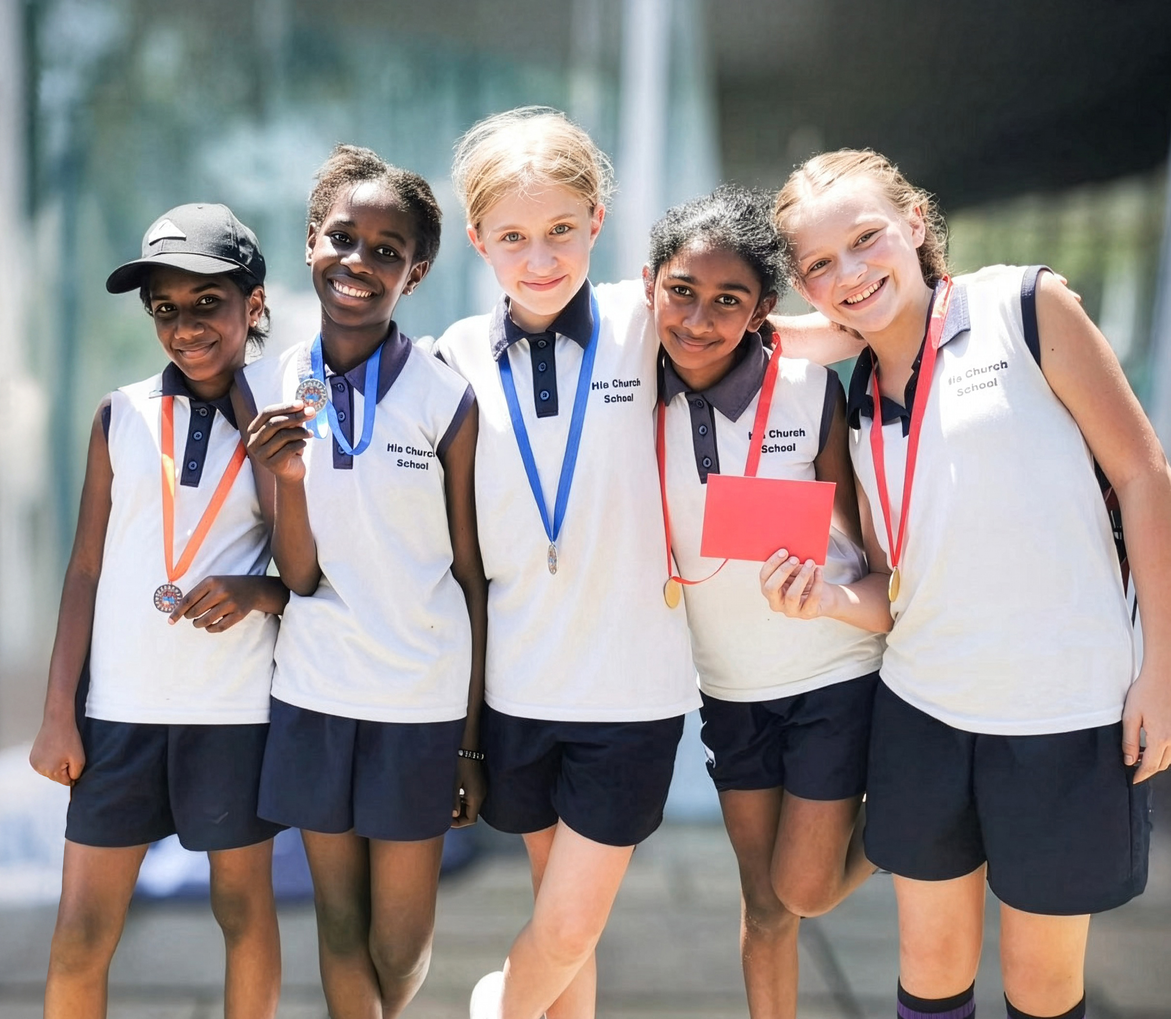
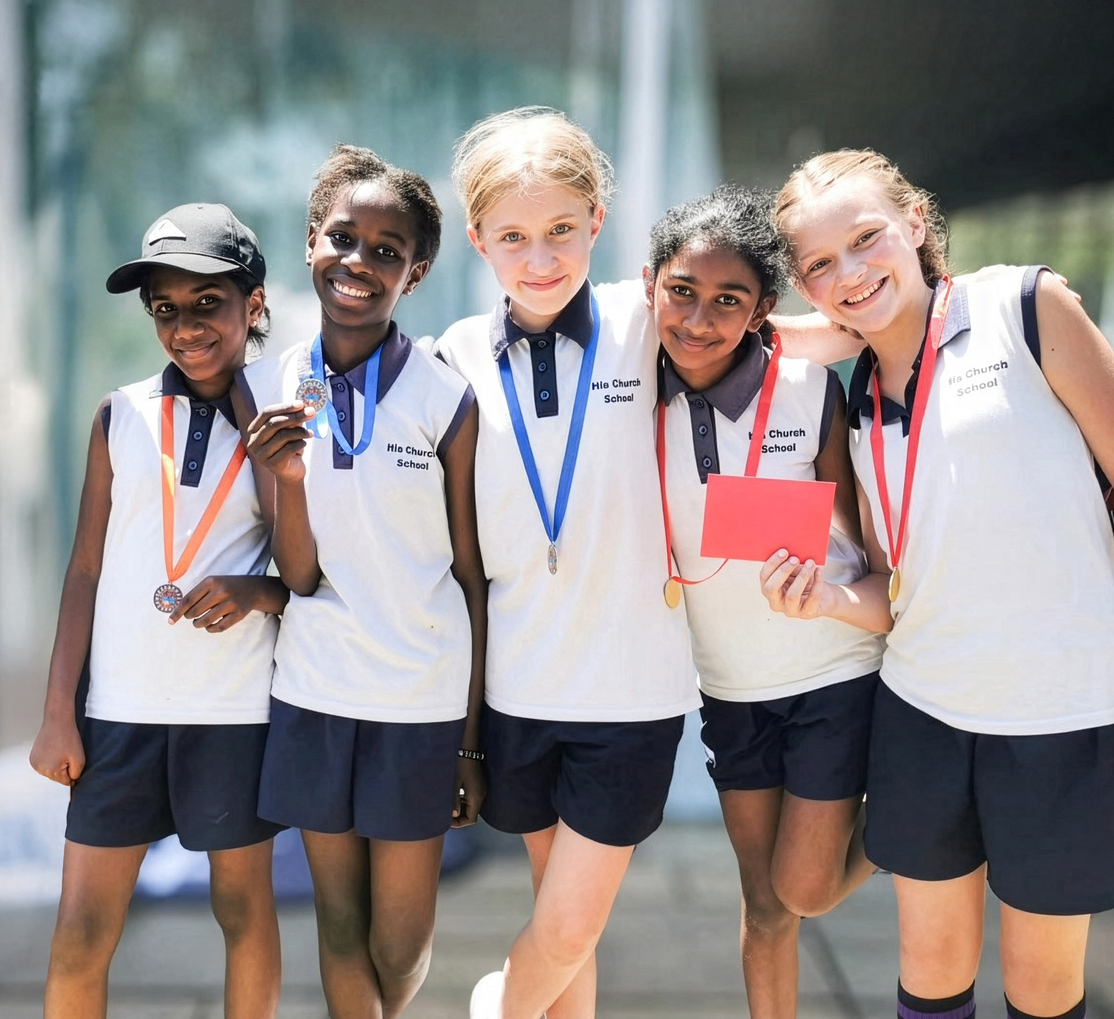
feat: user manually cropped mobile hero image, reverting css offset

diff --git a/client/src/pages/Home.tsx b/client/src/pages/Home.tsx
@@ -106,7 +106,7 @@ export default function Home() {
             src={HOME_HERO_MOBILE_URL}
             alt=""
             aria-hidden="true"
-            className="absolute inset-0 h-full w-full origin-top -translate-y-[10%] scale-[1.14] object-cover object-[34%_0%] sm:hidden"
+            className="absolute inset-0 h-full w-full origin-top -translate-y-[10%] scale-[1.14] object-cover object-[50%_0%] sm:hidden"
           />
           <img
             src={HOME_HERO_URL}
